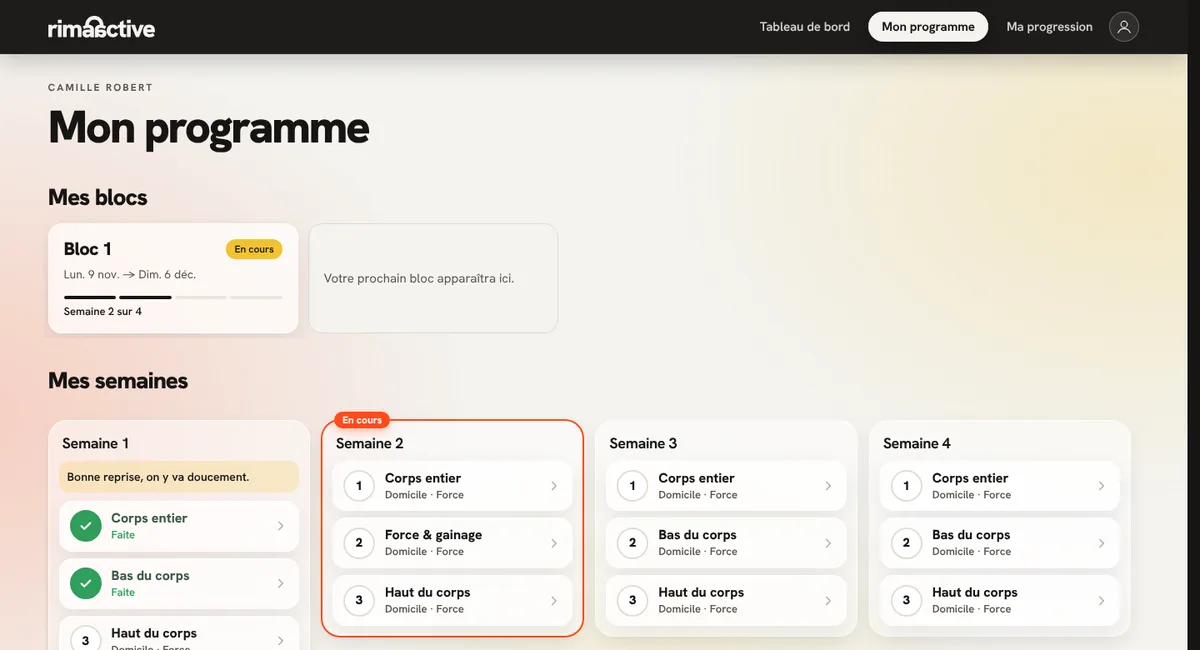
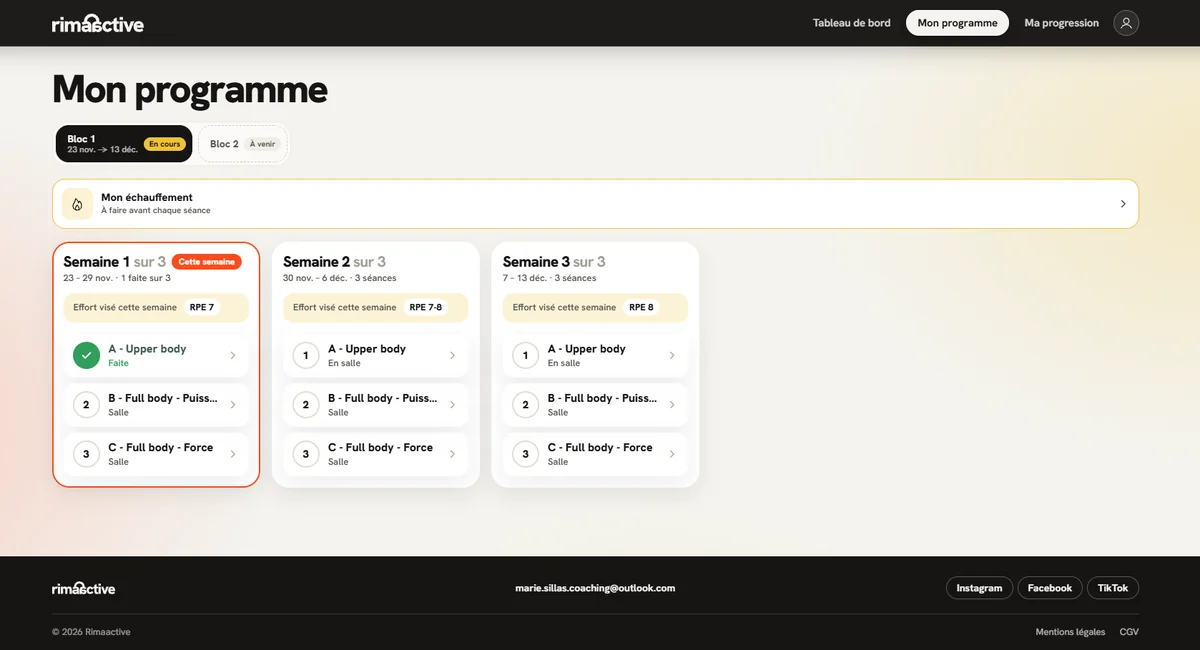
Séance : durée qui défile depuis l'ouverture (gardée sur l'appareil), affichée sur « Séance enregistrée » ; accueil : image « Mon programme » (ordinateur) envoyée par Marie
Claude-Session: https://claude.ai/code/session_01J8BpjS9NsTda4UHEMLi6pS

diff --git a/src/espace/client/Seance.jsx b/src/espace/client/Seance.jsx
@@ -66,6 +66,7 @@ function EcranSeance({ programmeId, seanceId, programmes, seances }) {
   const minuterie = useRef(null)
   const enAttente = useRef(carteVide())
   const termine = useRef(false) // « Enregistrer ma séance » déjà envoyé depuis cet écran
+  const dureeFinie = useRef(null) // durée de la séance, montrée sur « Séance enregistrée »
   // séance guidée (15 novembre 2026) : bloc ouvert (le dernier + 1 = fin de séance)
   const [etape, setEtape] = useState(() => {
     const p = programmes.find((x) => x.id === programmeId)
@@ -85,6 +86,16 @@ function EcranSeance({ programmeId, seanceId, programmes, seances }) {
   // avant la date de début : séance visible, mais on ne peut pas la commencer (Marie, 22 novembre 2026)
   const avantDebut = pasCommence(programme, aujourdhuiIso()) && !fait
   const verrou = (dejaFaite && !edition) || avantDebut
+  // Durée de la séance (Marie, 26 novembre 2026) : le chronomètre part à la première ouverture et se garde sur l'appareil
+  const cleDebut = `rima-debut-${programmeId}_${seanceId}`
+  const [debutSeance] = useState(() => {
+    if (dejaFaite || avantDebut) return null
+    try {
+      const v = Number(localStorage.getItem(cleDebut))
+      if (v > 0 && Date.now() - v < 6 * 3600 * 1000) return v
+      const n = Date.now(); localStorage.setItem(cleDebut, String(n)); return n
+    } catch { return Date.now() }
+  })
 
   const erreurEnvoi = (e) => {
     // refus tardif d'une écriture partie avant ou pendant l'enregistrement : la séance est bien enregistrée
@@ -241,6 +252,7 @@ function EcranSeance({ programmeId, seanceId, programmes, seances }) {
         }
       }
     }
+    if (debutSeance) { dureeFinie.current = Date.now() - debutSeance; try { localStorage.removeItem(cleDebut) } catch { /* rien */ } }
     terminerSeance(programmeId, seanceId, { ...fin, ...(course ? sortie : {}), series: toutes, notes, blocs }).catch(erreurEnvoi)
   }
 
@@ -283,7 +295,7 @@ function EcranSeance({ programmeId, seanceId, programmes, seances }) {
             {bloc ? (
               unExercice ? (
                 <BlocTelephone key={bloc.id} bloc={bloc} etape={ici} blocs={listeBlocs} prog={prog} lignes={lignes} notes={notes} resultats={blocs} actions={actions}
-                  voirConsignes={setFiche} aller={aller} finir={() => aller(nb)} retour={retourPetit} lecture={verrou} />
+                  voirConsignes={setFiche} aller={aller} finir={() => aller(nb)} retour={retourPetit} lecture={verrou} debut={debutSeance} />
               ) : (
                 <>
                   {!galerie && <BandeauBloc surtitre={titre} bloc={bloc} prog={prog} etape={ici} blocs={listeBlocs} aller={aller} finir={() => aller(nb)} verrou={verrou} />}
@@ -315,7 +327,7 @@ function EcranSeance({ programmeId, seanceId, programmes, seances }) {
                 {avantDebut ? null : edition
                   ? <div className="ec-correction-fin"><h2 className="ec-h2">Correction terminée ?</h2><p className="ec-texte">Vos changements sont déjà enregistrés. Marie voit la séance corrigée.</p><button type="button" className="ec-s2-gros" onClick={finirCorrection}>J’ai fini ✓</button></div>
                   : <FinDeSeance key={verrou ? 'terminee' : 'saisie'} course={false} fait={fait} etat={etatEnvoi(fait, enLigne)} envoyer={terminer}
-                      suite={suiteDe(programme, seances)} vientDeFinir={termine.current} records={recordsDe(fait, programmes, seances)} />}
+                      suite={suiteDe(programme, seances)} vientDeFinir={termine.current} duree={dureeFinie.current} records={recordsDe(fait, programmes, seances)} />}
                 {nb > 0 && (
                   // retour au dernier bloc : un bouton pilule avec une flèche, comme « Plan » (Marie, 25 novembre 2026)
                   <button type="button" className="ec-retour-bloc" onClick={() => aller(nb - 1)} aria-label={`Revenir au bloc ${nomBloc(listeBlocs[nb - 1])}`}>
@@ -428,7 +440,7 @@ function EcranSeance({ programmeId, seanceId, programmes, seances }) {
 {avantDebut ? null : edition
           ? <div className="ec-correction-fin"><h2 className="ec-h2">Correction terminée ?</h2><p className="ec-texte">Vos changements sont déjà enregistrés. Marie voit la séance corrigée.</p><button type="button" className="ec-s2-gros" onClick={finirCorrection}>J’ai fini ✓</button></div>
           :         <FinDeSeance key={verrou ? 'terminee' : 'saisie'} course={course} fait={fait} etat={etatEnvoi(fait, enLigne)} envoyer={terminer}
-          suite={suiteDe(programme, seances)} vientDeFinir={termine.current} records={recordsDe(fait, programmes, seances)} />}
+          suite={suiteDe(programme, seances)} vientDeFinir={termine.current} duree={dureeFinie.current} records={recordsDe(fait, programmes, seances)} />}
       </div>
 
       <Consignes element={fiche} fermer={() => setFiche(null)} />

diff --git a/src/espace/client/FinDeSeance.jsx b/src/espace/client/FinDeSeance.jsx
@@ -9,7 +9,7 @@ const NOMS = { 5: 'Modéré', 6: 'Moyennement difficile', 7: 'Difficile', 8: 'Tr
 // Panneau « Fin de séance » (maquette) : effort global 5 à 10, ressenti, commentaire (« Mes sensations » en course),
 // « Enregistrer ma séance ». Séance terminée (`fait.statut === 'terminée'`) : même panneau en lecture seule.
 // `etat` : texte d'enregistrement (réseau) ; `envoyer(fin)` : { effort, ressenti, commentaire } (effort facultatif : null).
-export default function FinDeSeance({ course, fait, etat, envoyer, suite, vientDeFinir, records = [] }) {
+export default function FinDeSeance({ course, fait, etat, envoyer, suite, vientDeFinir, records = [], duree = null }) {
   const terminee = fait?.statut === 'terminée'
   const [fin, setFin] = useState({ effort: null, ressenti: '', commentaire: '' })
   const [envoye, setEnvoye] = useState(false) // un seul envoi, même après un double appui
@@ -28,7 +28,7 @@ export default function FinDeSeance({ course, fait, etat, envoyer, suite, vientD
 
   // Juste après « Enregistrer ma séance » : un écran de fin clair (13 novembre 2026), avec la suite du programme
   if (terminee && vientDeFinir && !revoir) {
-    return <Bravo fait={fait} suite={suite} records={records} revoir={() => setRevoir(true)} />
+    return <Bravo fait={fait} suite={suite} records={records} duree={duree} revoir={() => setRevoir(true)} />
   }
 
   // Même style que la séance sur téléphone (Marie, 23 novembre 2026) : titre en petites capitales, cartes blanches,
@@ -88,13 +88,15 @@ function Coche() {
 
 // Écran épuré (14 novembre 2026, demande de Thomas) : coche, titre, une phrase, le record s'il y en a un, un seul bouton.
 // La prochaine séance est sur le tableau de bord ; « Revoir ma séance » reste en petit lien.
-function Bravo({ records, revoir }) {
+function Bravo({ records, revoir, duree }) {
+  const min = duree ? Math.max(1, Math.round(duree / 60000)) : null
   return (
     <aside className="ec-fin ec-bravo" aria-labelledby="titre-bravo">
       <span className="ec-bravo__rond" aria-hidden="true">
         <svg viewBox="0 0 24 24" width="32" height="32" fill="none" stroke="currentColor" strokeWidth="2.6" strokeLinecap="round" strokeLinejoin="round"><path d="M5 12.5l4.5 4.5L19 7.5" /></svg>
       </span>
       <h2 id="titre-bravo" className="ec-bravo__titre">Séance enregistrée</h2>
+      {min && <p className="ec-bravo__duree">Durée : {min >= 60 ? `${Math.floor(min / 60)} h ${String(min % 60).padStart(2, '0')}` : `${min} min`}</p>}
       <p role="status" className="sr-only">Séance enregistrée.</p>
       {/* plus de « 5 séances sur 12, bravo ! » (Marie, 25 novembre 2026) */}
       {records.length > 0 && (

diff --git a/src/espace/client/SeanceTelephone.jsx b/src/espace/client/SeanceTelephone.jsx
@@ -17,7 +17,7 @@ const Coche = ({ taille = 20 }) => (
 const vide = (v) => !String(v ?? '').trim()
 const texteRpe = (v) => fr(String(v ?? '').replace('.', ','))
 
-export default function BlocTelephone({ bloc, etape, blocs, prog, lignes, notes, resultats, actions, voirConsignes, aller, finir, retour, lecture = false }) {
+export default function BlocTelephone({ bloc, etape, blocs, prog, lignes, notes, resultats, actions, voirConsignes, aller, finir, retour, lecture = false, debut = null }) {
   const [plan, setPlan] = useState(false)
   const [feuille, setFeuille] = useState(null) // { type: 'serie' | 'tour' | 'bloc' | 'note', ... }
   const nb = blocs.length
@@ -61,7 +61,10 @@ export default function BlocTelephone({ bloc, etape, blocs, prog, lignes, notes,
         </ul>
       )}
       {/* seulement le nom du bloc de Marie, sans « Biset », « Séries »… (23 novembre 2026) */}
-      <p className="ec-st__sur">{nomBloc(bloc)}{reposBloc ? ' · fait' : ''}</p>
+      <div className="ec-st__ligne">
+        <p className="ec-st__sur">{nomBloc(bloc)}{reposBloc ? ' · fait' : ''}</p>
+        {!lecture && debut && <DureeSeance debut={debut} />}
+      </div>
       {/* repos après le bloc : la barre du haut reste, le chrono part tout seul (Marie, 25 novembre 2026) */}
       {reposBloc && <ChronoRepos titre="Repos avant le bloc suivant" prevu={reposApres} auto finir={() => { setReposBloc(false); suivant() }} />}
 
@@ -413,6 +416,21 @@ function MinuteurBloc({ secondes }) {
           </div>
         )}
     </div>
+  )
+}
+
+// Durée de la séance depuis son ouverture (Marie, 26 novembre 2026)
+function DureeSeance({ debut }) {
+  const [, battre] = useState(0)
+  useEffect(() => { const id = setInterval(() => battre((n) => n + 1), 1000); return () => clearInterval(id) }, [])
+  const s = Math.max(0, Math.floor((Date.now() - debut) / 1000))
+  const h = Math.floor(s / 3600)
+  const texte = h ? `${h}:${String(Math.floor((s % 3600) / 60)).padStart(2, '0')}:${String(s % 60).padStart(2, '0')}` : mmss(s)
+  return (
+    <span className="ec-st-duree" role="timer" aria-label={`Durée de la séance : ${texte}`}>
+      <svg viewBox="0 0 24 24" width="14" height="14" fill="none" stroke="currentColor" strokeWidth="2.2" strokeLinecap="round" strokeLinejoin="round" aria-hidden="true"><circle cx="12" cy="13" r="8" /><path d="M12 9v4l2.5 2M9.5 2.5h5" /></svg>
+      {texte}
+    </span>
   )
 }
 

diff --git a/src/espace/coache.css b/src/espace/coache.css
@@ -2182,3 +2182,7 @@ button.ec-s2-quitter { padding: 0; cursor: pointer; font: inherit; }
 .ec-st-kg { position: relative; display: block; min-width: 0; }
 .ec-st-kg small { position: absolute; left: 0; right: 0; bottom: 4px; text-align: center; font: 700 8.5px/1 var(--font-sans); letter-spacing: .02em; color: var(--ec-gris, #6b665f); pointer-events: none; }
 .ec-st-kg.est-par-main .ec-st-champ { padding-bottom: 9px; }
+/* Durée de la séance (26 novembre 2026) */
+.ec-st__ligne { display: flex; align-items: center; justify-content: space-between; gap: 10px; }
+.ec-st-duree { display: inline-flex; align-items: center; gap: 6px; padding: 6px 11px; border-radius: 999px; background: #fff; font: 800 13px/1 var(--font-sans); font-variant-numeric: tabular-nums; color: var(--ec-encre); }
+.ec-bravo__duree { margin: -4px 0 4px; font: 700 15px/1.3 var(--font-sans); color: var(--ec-gris, #6b665f); }
